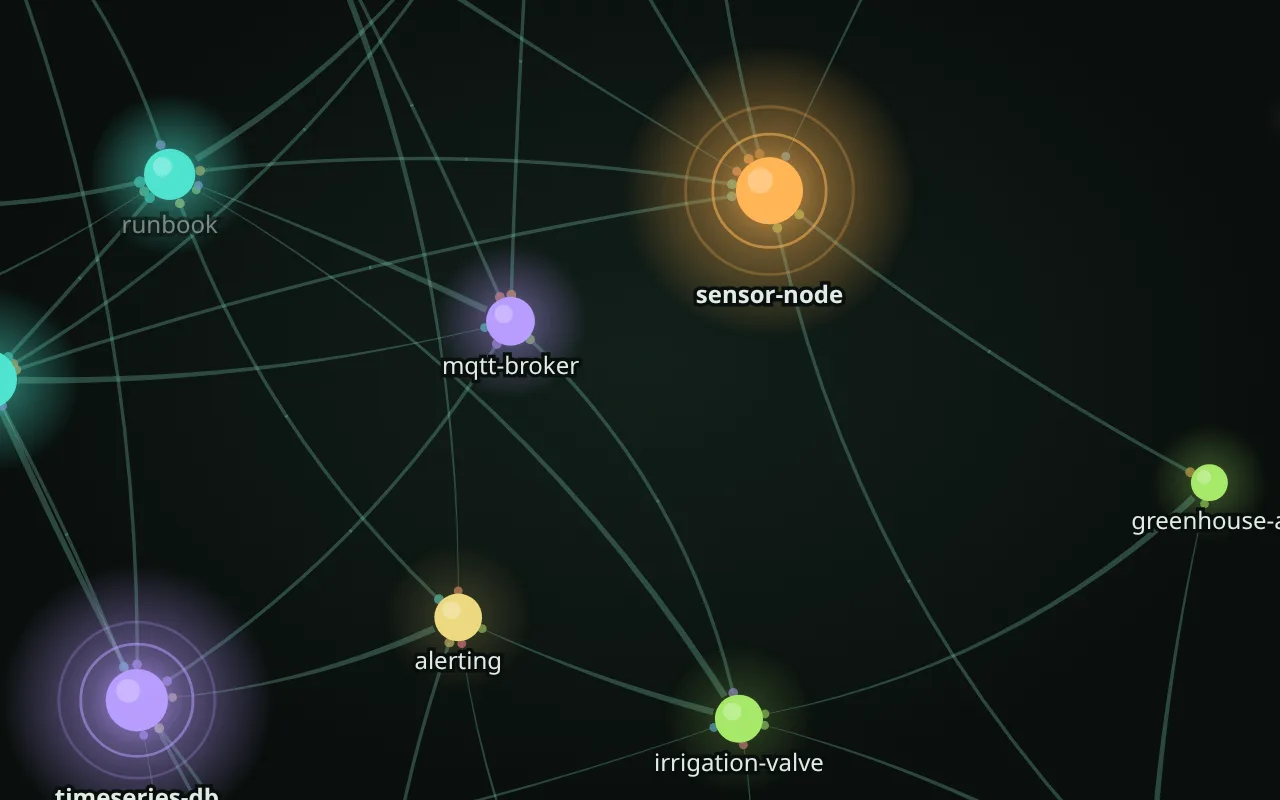
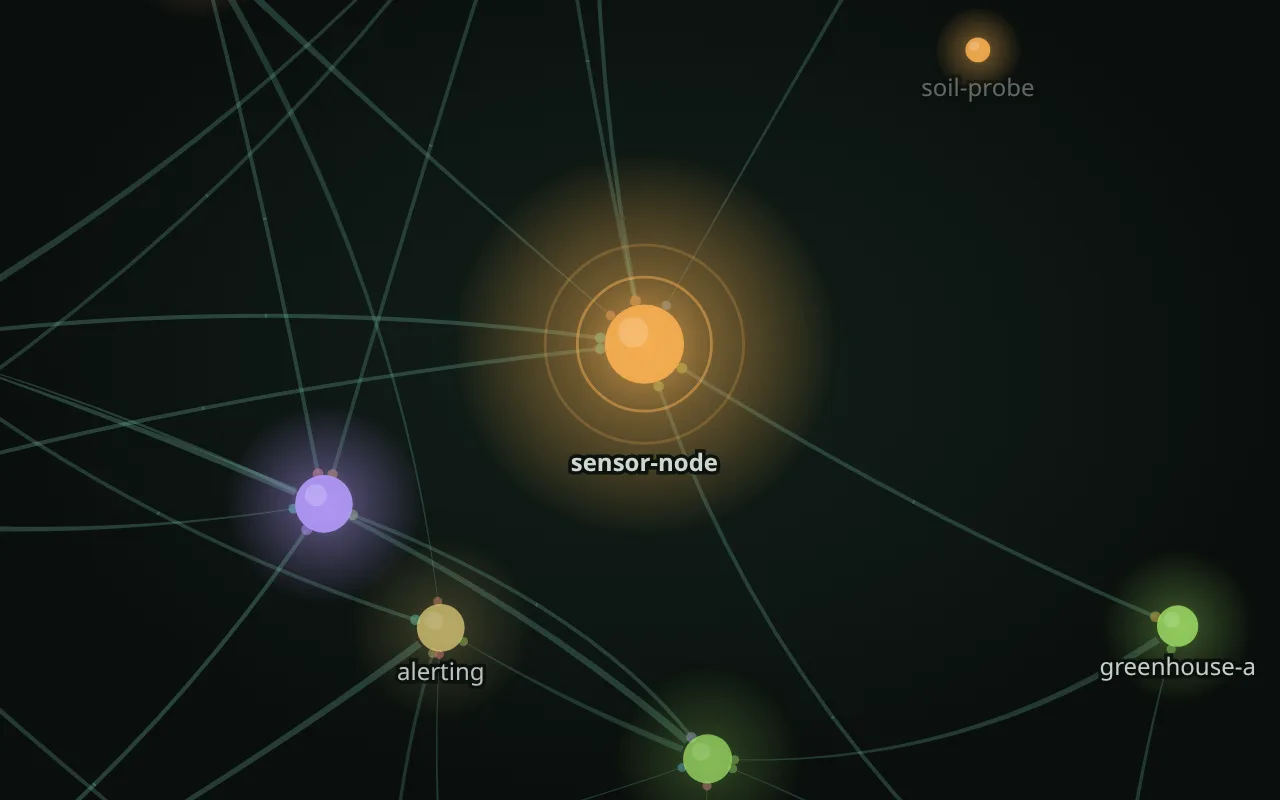
0.13.0: depth in the mycelium view

diff --git a/tests/native.py b/tests/native.py
@@ -166,6 +166,7 @@ def main():
         check("on a phone the detail panel opens as a strip with More", "panelFull" in h and '#panel.min' in h and '"More"' in h)
         check("labels take turns (rotation, fades, neighbourhood of a selection)", "updateLabels" in h and "slotCount" in h and "LDWELL" in h and "n.hub||n.i===hov" not in h)
         check("the search box folds and the panel shrinks on a larger screen too, remembered", 'id="fold"' in h and "#head.fold" in h and "togglePanel" in h and "myco-graph-" in h)
+        check("depth: recent notes in front, a Depth button for the flat view, picking on projected places", 'id="depth"' in h and "depthTargets" in h and "function proj(" in h and "n.px-px" in h and 'pref("depth"' in h)
         check("two fingers pinch to zoom, and a bud has its source's colour", "pinch" in h and "pointercancel" in h and "budRGB(e.dir>0?e.a:e.b)" in h)
         check("a missing reference is shown", gn is not None and gn.get("miss") == ["no-such-note.md"], str(gn))
         check("the history is replayed across a rename", gn is not None and gn["b"] < gn["l"] and len(g["commits"]) >= 3 and g["commits"][gn["b"]]["s"].startswith("Add a note for the graph test"), str((gn, [c["s"] for c in g["commits"]])))

diff --git a/skills/myco-notes/tools/_myco.py b/skills/myco-notes/tools/_myco.py
@@ -4,7 +4,7 @@ import re
 import subprocess
 import sys
 
-VERSION = "0.12.2"   # the kit version these tools come from; moves with plugin.json and SKILL.md (tests check it)
+VERSION = "0.13.0"   # the kit version these tools come from; moves with plugin.json and SKILL.md (tests check it)
 
 IS_WINDOWS = os.name == "nt"
 

diff --git a/README.md b/README.md
@@ -155,6 +155,7 @@ python3 <kit>/tools/relocate.py --root ~/projects/old-notes --apply    # then re
 - **Notes are nodes, mentions are hyphae**: the threads are the same file-name mentions the map uses for backlinks. Notes with many backlinks are bigger, and the few most-mentioned notes of the project are its hubs (two soft rings, chosen by mentions; the entry and method notes every tree has are never hubs); each group of notes is a color and clusters into a colony; history folders (`archive/`, `logs/`) sit dimmed at the edge.
 - **Threads have a direction**: a hypha grows out of the note that writes the mention, broad at its base, and thins toward the note it names, where it ends in a small bud on the rim, in the colour of the note it came from (a shade darker on the dark theme, lighter on the light one), so you can tell where a thread starts without following it. Two notes that mention each other share an even thread with a bud at both ends. While a thread is lit, sap flows the same way, and during a replay a new thread grows along its length instead of fading in.
 - **Names take turns**: a few notes carry their name at a time and hand it on, one fading in about every second and each staying about 7 seconds, so over a minute you see most of the network named without clutter. Well-mentioned, hub and recently changed notes come up more often, names never overlap each other or the panels, and zooming in brings more of them. With a note selected, only its neighbours take turns (all of them, when they fit). The hovered and selected note and search matches are always named.
+- **Depth**: the notes float at different depths. Recently changed notes sit in front, big and bright; the notes untouched for longest sink to the back, smaller and fainter. During a replay each commit pulls its notes forward while the rest recede. The view looks from slightly above and sways gently (not with reduced motion), a pan tilts it a little, and Shift-drag turns it. Depth is a ranking among the notes in view, so it spreads evenly whatever the project's pace. The Depth button returns the flat view (remembered per browser; `graph.html?depth=0` or `?depth=1` also works).
 - **Health you can see**: recently changed notes glow; notes with passed follow-up dates wilt (amber, dashed ring); a reference to a note that does not exist ends in a dashed stub with a `?`; a note nobody mentions drifts alone like a spore.
 - **Timeline replay**: press Replay (or Space) and the network grows commit by commit from the first commit to now; renames are followed, new and changed notes let out a ring. Drag the slider to jump anywhere in the history. `graph.html#replay` starts the replay on its own, handy for recording a clip.
 - **Explore**: hover to light up a note's threads, click for its details (mentions and mentioned by, each with its own list of notes, last change, follow-ups, missing references) and a link to its map page, search with Enter to fly to a match, click a group in the legend to hide it, wheel or pinch with two fingers to zoom, drag to pan, double-click or Fit to see everything, Theme for light and dark (it follows the system by default). On a larger screen the − button folds the search box down to the title and counts, and Less shrinks the detail panel to a strip (More opens it again); the browser remembers both.

diff --git a/skills/myco-notes/docs/METHODOLOGY.md b/skills/myco-notes/docs/METHODOLOGY.md
@@ -432,7 +432,7 @@ Paths are relative to the kit, which is the skill folder `skills/myco-notes/` (i
 | Bounded start-of-session briefing (11.2, 12) | `tools/resume` (`--budget`, `RESUME_BUDGET`) |
 | What the notes said on a date, what changed since, history of one note (7.1) | `tools/asof` |
 | Relation map, backlinks, history, publication gate (9, 8.2) | `tools/build-notes-map.py` |
-| The relations as a network, freshness, stale follow-ups, missing references, replay of the history (9, 10) | `tools/build-notes-map.py` writes `graph.html` (`tools/notes_graph.py`, `tools/graph-template.html`) |
+| The relations as a network, freshness (recently changed notes glow and float in front, untouched ones sink back), stale follow-ups, missing references, replay of the history (9, 10) | `tools/build-notes-map.py` writes `graph.html` (`tools/notes_graph.py`, `tools/graph-template.html`) |
 | Mirror (8.4); refuses a target that overlaps the tree or holds other files; `--dry-run`; `MIRROR_SCOPE`, `--strict` | `tools/mirror-push` |
 | Restore drill with history and working-copy verdicts (8.4, 11.6) | `tools/restore-drill` |
 | Health of a tree: kit version, tools, hook, layout, settings (11.5) | `tools/doctor` (read-only) |

diff --git a/CHANGELOG.md b/CHANGELOG.md
@@ -1,5 +1,9 @@
 # Changelog
 
+## 0.13.0
+- **Mycelium view, depth**: notes float at different depths, recently changed ones in front and the ones untouched for longest at the back (smaller, fainter, without their shine; threads thin and fade with them). Depth is a rank among the notes in view, so it spreads evenly whatever the project's pace, and a replay pulls each commit's notes forward. The view looks from slightly above and sways gently (not with reduced motion); a pan tilts it, Shift-drag turns it. Clicking, labels and search work on the projected positions. The new Depth button returns the exact flat view; the choice is kept per browser, and `?depth=0` or `?depth=1` in the address sets it. Plain canvas, no libraries: the map is still one offline file.
+- **README images** re-recorded with depth.
+
 ## 0.12.2
 README and demo only; the skill and tools are unchanged apart from the version number.
 - **A more colourful demo**: the demo tree's components are split into four groups (in the field, data path, greenhouses, for the growers), so the map uses ten colours instead of mostly one. The live demo is rebuilt with them.

diff --git a/skills/myco-notes/SKILL.md b/skills/myco-notes/SKILL.md
@@ -4,7 +4,7 @@ description: Keep a project's knowledge in a versioned, secret-free, cross-refer
 license: Apache-2.0
 compatibility: Needs git and python 3.8+ (Linux, macOS, Windows). rsync and ssh only for a remote-host mirror. Agent-neutral; any coding agent that reads SKILL.md or AGENTS.md can use it.
 metadata:
-  version: "0.12.2"
+  version: "0.13.0"
 ---
 
 # Myco Notes
